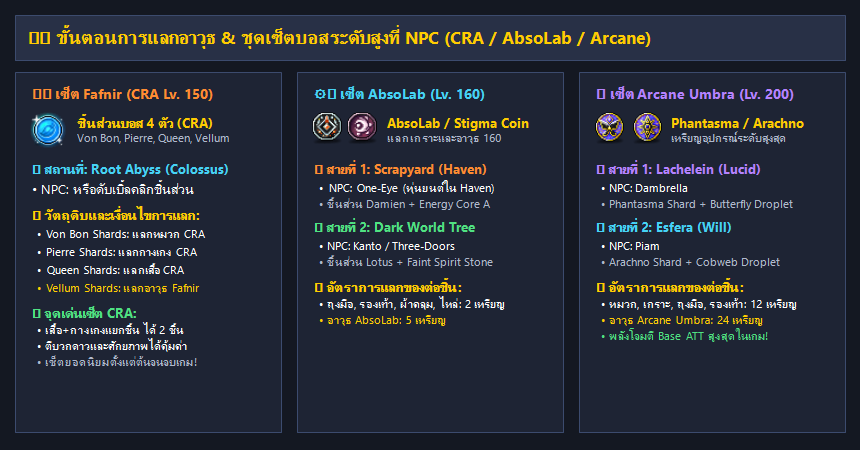
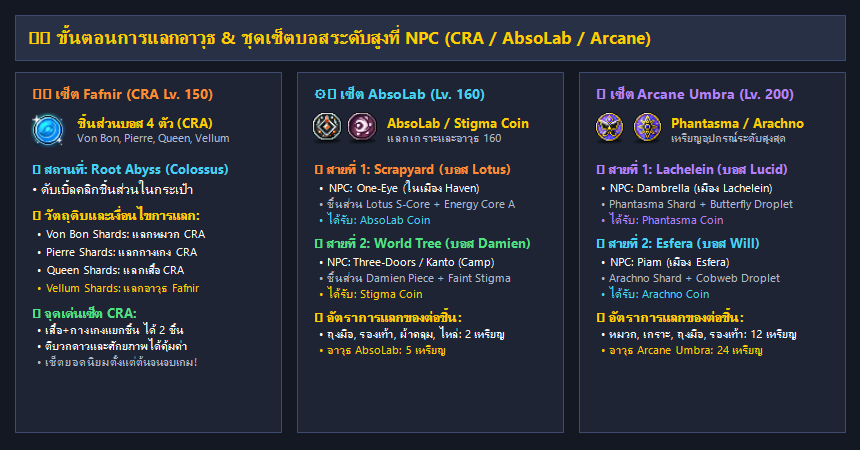
Fix boss drop mappings (Lotus/Damien, AbsoLab Haven/Camp, Arkarium Dominator, Will Cursed Spellbook, Black Mage Genesis Badge)

diff --git a/04-content/bosses.md b/04-content/bosses.md
@@ -22,26 +22,29 @@
 | ลำดับขั้นบอส | รายชื่อบอส & ความยาก | เลเวลแนะนำ | รอบรีเซ็ต | ไอเทมดรอปเด่นที่สำคัญ |
 | :--- | :--- | :---: | :---: | :--- |
 | **🔰 บอสประจำวัน (Daily)** | **Normal Zakum** | 100+ | รายวัน | Aquatic Letter Eye, Condensed Power Crystal, Meso |
-| | **Normal / Chaos Horntail** | 130+ | รายวัน | Silver Blossom Ring, Dea Sidus Earring, Horntail Necklace |
+| | **Normal / Chaos Horntail** | 130+ | รายวัน | Silver Blossom Ring, Dea Sidus Earring, Horntail Necklace *(Chaos ดรอป Chaos Horntail Necklace)* |
 | | **Normal / Hard Hilla** | 120+ | รายวัน | สัตว์เลี้ยง Dark Soul Pet, Necro Set, กล่องหิน Soul |
 | | **Normal Root Abyss (4 บอส)** | 130+ | รายวัน | ชิ้นส่วนเหรียญ Yggdrasil Rune, ปลดล็อคโหมด Chaos |
 | | **Normal Pink Bean** | 160+ | รายวัน | Golden Clover Belt, Pink Holy Cup, Black Bean Ring |
-| | **Easy / Normal Arkarium** | 140+ | รายวัน | Mechanator Pendant, **Dominator Pendant**, Primal Essence |
-| | **Easy / Normal Magnus** | 130+ | รายวัน | Crystal Ventus Badge, Royal Black Metal Shoulder |
+| | **Easy / Normal Arkarium** | 140+ | รายวัน | Mechanator Pendant, **Dominator Pendant** *(ดรอปเฉพาะ Normal เท่านั้น)*, Primal Essence |
+| | **Easy / Normal Magnus** | 130+ | รายวัน | Royal Black Metal Shoulder, Crystal Ventus Badge *(ดรอปจาก Normal)* |
 | | **Normal Papulatus** | 155+ | รายวัน | Papulatus Clock Chair, เหรียญ Meso, ใบอัปเกรด |
 | **⚔ บอสสัปดาห์ระดับกลาง (Weekly)** | **Chaos Zakum** | 180+ | สัปดาห์ | Chaos Zakum Helmet, Enraged Zakum Belt, เม็ดเงินก้อนโต |
-| | **Chaos Root Abyss (CRA 4 บอส)** | 180+ | สัปดาห์ | **ชิ้นส่วนแลกเซ็ต Fafnir (CRA Lv.150)**, คริสตัลบอส Meso |
+| | **Chaos Root Abyss (CRA 4 บอส)** | 180+ | สัปดาห์ | **ชิ้นส่วน 4 บอสแลกเซ็ต Fafnir (CRA Lv.150)**, คริสตัลบอส Meso |
 | | **Hard Magnus** | 190+ | สัปดาห์ | เหรียญ Magnus Coin, ผ้าคลุม Tyrant Cloak, ปลอกแขน |
-| | **Chaos Papulatus** | 200+ | สัปดาห์ | **Papulatus Mark (หน้ากากเวล 145)**, พวงกุญแจบอส |
+| | **Chaos Papulatus** | 200+ | สัปดาห์ | **Papulatus Mark (หน้ากากเวล 145 ดรอปเฉพาะ Chaos)**, พวงกุญแจบอส |
 | | **Guardian Angel Slime (N/C)** | 210+ | สัปดาห์ | **Guardian Angel Ring (แหวนเวล 160)** |
-| | **Lotus & Damien (Normal)** | 210+ | สัปดาห์ | ชิ้นส่วน Energy Core / Stigma Piece **แลกเซ็ต AbsoLab (Lv.160)** |
-| **🌌 บอสระดับสูง (End-Game)** | **Lotus & Damien (Hard)** | 230+ | สัปดาห์ | **Berserked (หน้าเวล 160)**, **Magic Eyepatch (ตาเวล 160)** |
-| | **Lucid & Will (Normal / Hard)** | 235+ | สัปดาห์ | ชิ้นส่วน Droplet Stones **แลกเซ็ต Arcane Umbra (Lv.200)**, **Dreamy Belt** |
+| | **Lotus (Normal)** | 210+ | สัปดาห์ | Extraordinary Energy Core Grade S ➔ **แลกเซ็ต AbsoLab (สาย Haven)** |
+| | **Damien (Normal)** | 210+ | สัปดาห์ | Twisted Stigma Energy Piece ➔ **แลกเซ็ต AbsoLab (สาย World Tree)** |
+| **🌌 บอสระดับสูง (End-Game)** | **Lotus (Hard)** | 230+ | สัปดาห์ | **Berserked (หน้ากากใบหน้าเวล 160 Pitched Boss)** |
+| | **Damien (Hard)** | 230+ | สัปดาห์ | **Magic Eyepatch (ประดับตาเวล 160 Pitched Boss)** |
+| | **Lucid (Normal / Hard)** | 235+ | สัปดาห์ | Phantasma Shards ➔ **แลกเซ็ต Arcane Umbra**, **Dreamy Belt (เข็มขัดเวล 200)** |
+| | **Will (Normal / Hard)** | 235+ | สัปดาห์ | Arachno Shards ➔ **แลกเซ็ต Arcane Umbra**, **Cursed Spellbook (กระเป๋าเวล 160)** |
 | | **Gloom (Chaos)** | 245+ | สัปดาห์ | **Endless Terror (แหวนเวล 200 Pitched Boss)** |
 | | **Verus Hilla (Hard)** | 250+ | สัปดาห์ | **Source of Suffering (สร้อยเวล 200 Pitched Boss)** |
 | | **Darknell (Hard)** | 255+ | สัปดาห์ | **Commanding Force Earring (ต่างหูเวล 200 Pitched Boss)** |
-| | **Black Mage (บอสแห่งความมืด)** | 255+ | เดือนละ 1 ครั้ง | **Genesis Weapon (อาวุธเทพปลดผนึก)**, Genesis Badge |
-| | **Chosen Seren, Kalos, Kaling** | 265+ | สัปดาห์ | **Mitra's Rage (ตรา Emblem เวล 200)**, ชิ้นส่วนเซ็ต Ether |
+| | **Black Mage (บอสแห่งความมืด)** | 255+ | เดือนละ 1 ครั้ง | **Genesis Weapon (อาวุธเทพปลดผนึก)**, **Genesis Badge (ตราเหรียญเวล 200)** |
+| | **Chosen Seren, Kalos, Kaling** | 265+ | สัปดาห์ | **Mitra's Rage (ตรา Emblem เวล 200 จาก Seren)**, ชิ้นส่วนเซ็ต Ether |
 
 ---
 
@@ -53,18 +56,18 @@
 
 | ภาพไอคอน | ชื่อไอเทมประดับ | ตำแหน่งสวมใส่ | เลเวลที่ต้องการ (Req Lv) | บอสที่ดรอปไอเทม | จุดเด่นและคำแนะนำ |
 | :---: | :--- | :---: | :---: | :--- | :--- |
-| <img src="../assets/bosses/boss_aquatic_letter_eye.png" width="30" height="30" alt="Aquatic Letter Eye" /> | **Aquatic Letter Eye Accessory** | หน้ากากตา (Eye) | **Lv. 100** | Normal Zakum | ประดับตาชิ้นแรกของทุกคน สเตตัสคุ้มค่า |
-| <img src="../assets/bosses/boss_condensed_power_crystal.png" width="30" height="30" alt="Condensed Power Crystal" /> | **Condensed Power Crystal** | ประดับใบหน้า (Face) | **Lv. 110** | Normal Zakum | ประดับหน้ายอดนิยม ส่อง Potential ติด 6-9% ง่าย |
+| <img src="../assets/bosses/boss_aquatic_letter_eye.png" width="30" height="30" alt="Aquatic Letter Eye" /> | **Aquatic Letter Eye Accessory** | หน้ากากตา (Eye) | **Lv. 100** | Normal / Chaos Zakum | ประดับตาชิ้นแรกของทุกคน สเตตัสคุ้มค่า |
+| <img src="../assets/bosses/boss_condensed_power_crystal.png" width="30" height="30" alt="Condensed Power Crystal" /> | **Condensed Power Crystal** | ประดับใบหน้า (Face) | **Lv. 110** | Normal / Chaos Zakum | ประดับหน้ายอดนิยม ส่อง Potential ติด 6-9% ง่าย |
 | <img src="../assets/bosses/boss_silver_blossom_ring.png" width="30" height="30" alt="Silver Blossom Ring" /> | **Silver Blossom Ring** | แหวน (Ring) | **Lv. 110** | Horntail (ทุกระดับ) | แหวนสเตตัสเริ่มต้น ตีบวกดาวและศักยภาพได้ |
 | <img src="../assets/bosses/boss_royal_black_metal_shoulder.png" width="30" height="30" alt="Royal Black Metal Shoulder" /> | **Royal Black Metal Shoulder** | หัวไหล่ (Shoulder) | **Lv. 120** | Magnus (ทุกระดับ) | หัวไหล่มาตรฐานสำหรับเก็บเซ็ตโบนัส |
-| <img src="../assets/bosses/boss_mechanator_pendant.png" width="30" height="30" alt="Mechanator Pendant" /> | **Mechanator Pendant** | สร้อยคอ (Pendant) | **Lv. 120** | Arkarium (ทุกระดับ) | สร้อยเส้นรองสำหรับใส่คู่กับ Dominator หรือ Horntail |
-| <img src="../assets/bosses/boss_chaos_horntail_necklace.png" width="30" height="30" alt="Chaos Horntail Necklace" /> | **Chaos Horntail Necklace** | สร้อยคอ (Pendant) | **Lv. 120** | Chaos Horntail | มี 3 Upgrade Slots ใช้ไข่ Horntail Egg บวก ATT ได้ |
-| <img src="../assets/bosses/boss_crystal_ventus_badge.png" width="30" height="30" alt="Crystal Ventus Badge" /> | **Crystal Ventus Badge** | ตราเหรียญ (Badge) | **Lv. 130** | Magnus (ทุกระดับ) | ตราเหรียญบวก All Stat +10 และ ATT/M.ATT +5 |
-| <img src="../assets/bosses/boss_dea_sidus_earring.png" width="30" height="30" alt="Dea Sidus Earring" /> | **Dea Sidus Earring** | ต่างหู (Earring) | **Lv. 130** | Horntail (ทุกระดับ) | ต่างหูสเตตัสสูง สุ่มออพชั่นไฟ Rebirth Flame ได้สวย |
-| <img src="../assets/bosses/boss_golden_clover_belt.png" width="30" height="30" alt="Golden Clover Belt" /> | **Golden Clover Belt** | เข็มขัด (Belt) | **Lv. 140** | Pink Bean (ทุกระดับ) | เข็มขัดหลักสำหรับผู้เล่นช่วงกลางเกม |
-| <img src="../assets/bosses/boss_pink_holy_cup.png" width="30" height="30" alt="Pink Holy Cup" /> | **Pink Holy Cup** | กระเป๋าพกพา (Pocket) | **Lv. 140** | Pink Bean (ทุกระดับ) | ใส่ในช่อง Pocket ได้รับ All Stat และ ATT สูง |
-| <img src="../assets/bosses/boss_dominator_pendant.png" width="30" height="30" alt="Dominator Pendant" /> | **Dominator Pendant** | สร้อยคอ (Pendant) | **Lv. 140** | Normal Arkarium | **สร้อยคอที่ดีที่สุดในเซ็ต!** เป็น Boss Advantage ออพชั่นไฟสูง |
-| <img src="../assets/bosses/boss_papulatus_mark.png" width="30" height="30" alt="Papulatus Mark" /> | **Papulatus Mark** | หน้ากากตา (Eye) | **Lv. 145** | Chaos Papulatus | **ประดับตาเทพประจำเซ็ต!** ตีได้ถึง 20+ ดาว |
+| <img src="../assets/bosses/boss_mechanator_pendant.png" width="30" height="30" alt="Mechanator Pendant" /> | **Mechanator Pendant** | สร้อยคอ (Pendant) | **Lv. 120** | Arkarium (Easy / Normal) | สร้อยเส้นรองสำหรับใส่คู่กับ Dominator หรือ Horntail |
+| <img src="../assets/bosses/boss_chaos_horntail_necklace.png" width="30" height="30" alt="Chaos Horntail Necklace" /> | **Chaos Horntail Necklace** | สร้อยคอ (Pendant) | **Lv. 120** | **Chaos Horntail เท่านั้น** | มี 3 Upgrade Slots ใช้ไข่ Dragon Egg บวก ATT ได้ |
+| <img src="../assets/bosses/boss_crystal_ventus_badge.png" width="30" height="30" alt="Crystal Ventus Badge" /> | **Crystal Ventus Badge** | ตราเหรียญ (Badge) | **Lv. 130** | Magnus (Normal / Hard) | ตราเหรียญบวก All Stat +10 และ ATT/M.ATT +5 |
+| <img src="../assets/bosses/boss_dea_sidus_earring.png" width="30" height="30" alt="Dea Sidus Earring" /> | **Dea Sidus Earring** | ต่างหู (Earring) | **Lv. 130** | Horntail (Normal / Chaos) | ต่างหูสเตตัสสูง สุ่มออพชั่นไฟ Rebirth Flame ได้สวย |
+| <img src="../assets/bosses/boss_golden_clover_belt.png" width="30" height="30" alt="Golden Clover Belt" /> | **Golden Clover Belt** | เข็มขัด (Belt) | **Lv. 140** | Pink Bean (Normal / Chaos) | เข็มขัดหลักสำหรับผู้เล่นช่วงกลางเกม |
+| <img src="../assets/bosses/boss_pink_holy_cup.png" width="30" height="30" alt="Pink Holy Cup" /> | **Pink Holy Cup** | กระเป๋าพกพา (Pocket) | **Lv. 140** | Pink Bean (Normal / Chaos) | ใส่ในช่อง Pocket ได้รับ All Stat และ ATT สูง |
+| <img src="../assets/bosses/boss_dominator_pendant.png" width="30" height="30" alt="Dominator Pendant" /> | **Dominator Pendant** | สร้อยคอ (Pendant) | **Lv. 140** | **Normal Arkarium เท่านั้น** | **สร้อยคอที่ดีที่สุดในเซ็ต!** (Easy ไม่ดรอป) เป็น Boss Advantage ออพชั่นไฟสูง |
+| <img src="../assets/bosses/boss_papulatus_mark.png" width="30" height="30" alt="Papulatus Mark" /> | **Papulatus Mark** | หน้ากากตา (Eye) | **Lv. 145** | **Chaos Papulatus เท่านั้น** | **ประดับตาเทพประจำเซ็ต!** (Normal ไม่ดรอป) ตีได้ถึง 20+ ดาว |
 | <img src="../assets/bosses/boss_guardian_angel_ring.png" width="30" height="30" alt="Guardian Angel Ring" /> | **Guardian Angel Ring** | แหวน (Ring) | **Lv. 160** | Guardian Angel Slime | นับเป็นทั้ง Boss Accessory Set หรือ Dawn Boss Set |
 
 ---
@@ -83,19 +86,21 @@
 
 | ภาพไอคอน | ชื่อไอเทมประดับ Pitched Boss | ตำแหน่งสวมใส่ | เลเวลสวมใส่ (Req Lv) | บอสที่ดรอปไอเทม |
 | :---: | :--- | :---: | :---: | :--- |
-| <img src="../assets/bosses/boss_berserked.png" width="30" height="30" alt="Berserked" /> | **Berserked** | ประดับใบหน้า (Face) | **Lv. 160** | Hard Lotus |
-| <img src="../assets/bosses/boss_magic_eyepatch.png" width="30" height="30" alt="Magic Eyepatch" /> | **Magic Eyepatch** | หน้ากากตา (Eye) | **Lv. 160** | Hard Damien |
-| <img src="../assets/bosses/boss_dreamy_belt.png" width="30" height="30" alt="Dreamy Belt" /> | **Dreamy Belt** | เข็มขัด (Belt) | **Lv. 200** | Hard Lucid |
-| <img src="../assets/bosses/boss_endless_terror.png" width="30" height="30" alt="Endless Terror" /> | **Endless Terror** | แหวน (Ring) | **Lv. 200** | Chaos Gloom |
-| <img src="../assets/bosses/boss_source_of_suffering.png" width="30" height="30" alt="Source of Suffering" /> | **Source of Suffering** | สร้อยคอ (Pendant) | **Lv. 200** | Hard Verus Hilla |
-| <img src="../assets/bosses/boss_commanding_force_earring.png" width="30" height="30" alt="Commanding Force Earring" /> | **Commanding Force Earring** | ต่างหู (Earring) | **Lv. 200** | Hard Darknell |
-| <img src="../assets/bosses/boss_mitras_rage.png" width="30" height="30" alt="Mitra's Rage" /> | **Mitra's Rage** | ตราประจำอาชีพ (Emblem) | **Lv. 200** | Hard Chosen Seren |
+| <img src="../assets/bosses/boss_berserked.png" width="30" height="30" alt="Berserked" /> | **Berserked** | ประดับใบหน้า (Face) | **Lv. 160** | **Hard Lotus** |
+| <img src="../assets/bosses/boss_magic_eyepatch.png" width="30" height="30" alt="Magic Eyepatch" /> | **Magic Eyepatch** | หน้ากากตา (Eye) | **Lv. 160** | **Hard Damien** |
+| <img src="../assets/bosses/boss_cursed_spellbook.png" width="30" height="30" alt="Cursed Spellbook" /> | **Cursed Spellbook** | กระเป๋าพกพา (Pocket) | **Lv. 160** | **Hard Will** |
+| <img src="../assets/bosses/boss_dreamy_belt.png" width="30" height="30" alt="Dreamy Belt" /> | **Dreamy Belt** | เข็มขัด (Belt) | **Lv. 200** | **Hard Lucid** |
+| <img src="../assets/bosses/boss_endless_terror.png" width="30" height="30" alt="Endless Terror" /> | **Endless Terror** | แหวน (Ring) | **Lv. 200** | **Chaos Gloom** |
+| <img src="../assets/bosses/boss_source_of_suffering.png" width="30" height="30" alt="Source of Suffering" /> | **Source of Suffering** | สร้อยคอ (Pendant) | **Lv. 200** | **Hard Verus Hilla** |
+| <img src="../assets/bosses/boss_commanding_force_earring.png" width="30" height="30" alt="Commanding Force Earring" /> | **Commanding Force Earring** | ต่างหู (Earring) | **Lv. 200** | **Hard Darknell** |
+| <img src="../assets/bosses/boss_genesis_badge.png" width="30" height="30" alt="Genesis Badge" /> | **Genesis Badge** | ตราเหรียญ (Badge) | **Lv. 200** | **Black Mage** |
+| <img src="../assets/bosses/boss_mitras_rage.png" width="30" height="30" alt="Mitra's Rage" /> | **Mitra's Rage** | ตราประจำอาชีพ (Emblem) | **Lv. 200** | **Hard Chosen Seren** |
 
 * 🌟 **โบนัสเซ็ต Pitched Boss ที่โดดเด่น:**  
   * เซ็ต 2 ชิ้น: All Stat +10, ATT/M.ATT +10, **Boss Damage +10%**  
   * เซ็ต 3 ชิ้น: All Stat +10, ATT/M.ATT +10, **IED +10%**  
   * เซ็ต 4 ชิ้น: All Stat +15, ATT/M.ATT +15, **Critical Damage +5%**  
-  * เซ็ต 5-7 ชิ้น: ดัน All Stat, ATT/M.ATT และ Boss Damage เพิ่มขึ้นแบบทวีคูณ!
+  * เซ็ต 5-9 ชิ้น: ดัน All Stat, ATT/M.ATT และ Boss Damage เพิ่มขึ้นแบบทวีคูณ!
 
 ---
 
@@ -126,21 +131,21 @@
 ### ⚙ 5.2 เซ็ต AbsoLab (Lv. 160)
 อุปกรณ์เซ็ต AbsoLab (หมวก, เสื้อ, ถุงมือ, รองเท้า, ผ้าคลุม, หัวไหล่, อาวุธ) สามารถหาได้ผ่าน 2 เส้นทาง:
 
-#### 📍 เส้นทางที่ 1: Scrapyard (Haven) - สาย Damien
+#### 📍 เส้นทางที่ 1: Scrapyard (Haven) - สายบอส Lotus
 1. **วัตถุดิบที่ต้องใช้:**
-   * **Faint Stigma Spirit Stone:** ได้รับจากการทำเควสต์ประจำสัปดาห์ในเมือง Haven / Scrapyard
-   * **Twisted Stigma Energy Piece:** ดรอปจากการกำจัดบอส **Damien** (Normal หรือ Hard)
-2. **ขั้นตอนการแลก:**
-   * นำวัตถุดิบทั้งสองชิ้นไปแลกเป็น <img src="../assets/bosses/token_stigma_coin.png" width="20" height="20" alt="Stigma Coin" /> **Stigma Coin** กับ NPC **One-Eye** ในแผนที่ Haven
-   * ใช้ **Stigma Coin 2 เหรียญ** เพื่อแลกซื้อชิ้นส่วนชุดเกราะ (ถุงมือ, รองเท้า, ผ้าคลุม)
-   * ใช้ **Stigma Coin 5 เหรียญ** เพื่อแลกซื้อ **อาวุธ AbsoLab Weapon**
-
-#### 📍 เส้นทางที่ 2: Dark World Tree (Deserted Camp) - สาย Lotus
-1. **วัตถุดิบที่ต้องใช้:**
-   * **Diffusion-Line Energy Core Grade A:** ได้รับจากการทำเควสต์ประจำสัปดาห์ใน Deserted Camp
+   * **Diffusion-Line Energy Core Grade A:** ได้รับจากการทำเควสต์ประจำสัปดาห์ในเมือง Haven / Scrapyard
    * **Extraordinary Energy Core Grade S:** ดรอปจากการกำจัดบอส **Lotus** (Normal หรือ Hard)
 2. **ขั้นตอนการแลก:**
-   * นำวัตถุดิบไปแลกเป็น <img src="../assets/bosses/token_absolab_coin.png" width="20" height="20" alt="AbsoLab Coin" /> **AbsoLab Coin** กับ NPC **Three-Doors** หรือ **Kanto** ใน Abandoned Camp
+   * นำวัตถุดิบทั้งสองชิ้นไปแลกเป็น <img src="../assets/bosses/token_absolab_coin.png" width="20" height="20" alt="AbsoLab Coin" /> **AbsoLab Coin** กับ NPC **One-Eye** ในแผนที่ Haven
+   * ใช้ **AbsoLab Coin 2 เหรียญ** เพื่อแลกซื้อชิ้นส่วนชุดเกราะ (ถุงมือ, รองเท้า, ผ้าคลุม)
+   * ใช้ **AbsoLab Coin 5 เหรียญ** เพื่อแลกซื้อ **อาวุธ AbsoLab Weapon**
+
+#### 📍 เส้นทางที่ 2: Dark World Tree (Deserted Camp) - สายบอส Damien
+1. **วัตถุดิบที่ต้องใช้:**
+   * **Faint Stigma Spirit Stone:** ได้รับจากการทำเควสต์ประจำสัปดาห์ใน Dark World Tree (Deserted Camp)
+   * **Twisted Stigma Energy Piece:** ดรอปจากการกำจัดบอส **Damien** (Normal หรือ Hard)
+2. **ขั้นตอนการแลก:**
+   * นำวัตถุดิบไปแลกเป็น <img src="../assets/bosses/token_stigma_coin.png" width="20" height="20" alt="Stigma Coin" /> **Stigma Coin** กับ NPC **Three-Doors** หรือ **Kanto** ใน Abandoned Camp
    * อัตราการแลก: 2 เหรียญสำหรับชุดเกราะ และ 5 เหรียญสำหรับอาวุธ
 
 ---
@@ -148,14 +153,14 @@
 ### 🌌 5.3 เซ็ต Arcane Umbra (Lv. 200)
 สุดยอดอาวุธและชุดเกราะ End-Game ที่มีค่า Base ATT สูงที่สุดในเกม แลกได้ผ่าน 2 เมืองหลักใน Arcane River:
 
-#### 📍 เส้นทางที่ 1: Lachelein (สาย Lucid)
+#### 📍 เส้นทางที่ 1: Lachelein (สายบอส Lucid)
 * **วัตถุดิบ:**
   * **Butterfly Droplet Stone:** ดรอปจากการฟาร์มมอนสเตอร์ในแผนที่ Lachelein, Arcana, และ Morass
   * **Phantasma Shard:** ดรอปจากการกำจัดบอส **Lucid** (Normal หรือ Hard)
 * **NPC ที่รับแลก:** NPC **Dambrella** ในเมือง Lachelein
 * **เหรียญที่ได้รับ:** <img src="../assets/bosses/token_phantasma_coin.png" width="20" height="20" alt="Phantasma Coin" /> **Phantasma Coin**
 
-#### 📍 เส้นทางที่ 2: Esfera (สาย Will)
+#### 📍 เส้นทางที่ 2: Esfera (สายบอส Will)
 * **วัตถุดิบ:**
   * **Stone Cobweb Droplet:** ดรอปจากการฟาร์มมอนสเตอร์ในแผนที่ Esfera
   * **Arachno Shard:** ดรอปจากการกำจัดบอส **Will** (Normal หรือ Hard)
